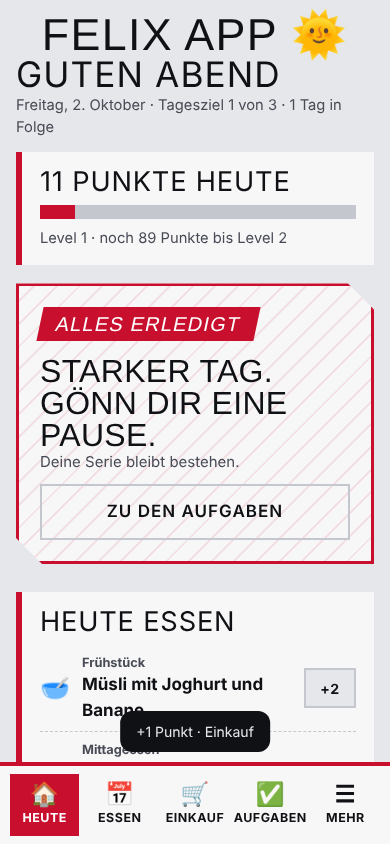
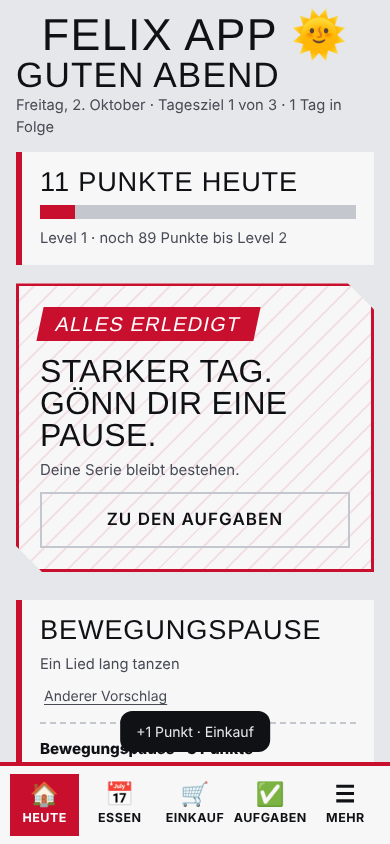
Fokus-Timer, Bewegungspause, Stil-Korrektur (2.4.0)
Claude-Session: https://claude.ai/code/session_01JKnLbAw27fNPQk2xqHruVg

diff --git a/index.html b/index.html
@@ -5,7 +5,7 @@
 <script>try{var _v=localStorage.getItem("aufgabenStil");if(["reward","punk","rock","gothic"].indexOf(_v)>=0)document.documentElement.dataset.v=_v}catch(e){}</script>
 <meta name="viewport" content="width=device-width, initial-scale=1">
 <title>Felix App</title>
-<meta name="version" content="2.3.0">
+<meta name="version" content="2.4.0">
 <meta name="application-name" content="Felix App">
 <meta name="apple-mobile-web-app-title" content="Felix App">
 <link rel="preconnect" href="https://fonts.googleapis.com">
@@ -254,9 +254,9 @@ button.fav.sm{margin-top:6px;padding:4px 14px;font-size:.88rem}
     --hot:#E6C26A; --hot-soft:#2F2508;
     --spot:#C9A24A; --spot-fg:#1A1200; color-scheme:dark;
   }}
-.v-rw button,.v-rw input{font:inherit;color:inherit}
-.v-rw button{cursor:pointer}
-.v-rw h1,.v-rw h2,.v-rw p,.v-rw ul{margin:0;font-family:inherit}
+:where(.v-rw) :is(button,input){font:inherit;color:inherit}
+:where(.v-rw) button{cursor:pointer}
+:where(.v-rw) :is(h1,h2,p,ul){margin:0;font-family:inherit}
 .shell{padding:0}
 .tk-top{display:flex;flex-wrap:wrap;align-items:center;justify-content:space-between;gap:12px 16px;margin-bottom:28px}
 .brand{font-size:12px;color:var(--muted);letter-spacing:.08em;text-transform:uppercase}
@@ -593,6 +593,12 @@ input[type=checkbox]:checked::after{font-size:18px}
 .tk-opt{margin-top:10px}
 .tk-opt summary{cursor:pointer;min-height:44px;display:flex;align-items:center;font-weight:700;color:var(--muted)}
 .tk-opt .field{font-size:16px;min-height:46px}
+
+/* Timer */
+.tm-box{margin-top:16px;padding-top:14px;border-top:2px dashed var(--line)}
+.tm-h{margin:0 0 8px;font-weight:800;font-size:.95rem}
+.tm-time{font-size:2.6rem;line-height:1;font-weight:800;font-variant-numeric:tabular-nums;font-family:var(--f-display)}
+.td-card .tm-box{margin-top:10px}
 @media print{nav,.days,.bar button,.meal a{display:none}section{display:block!important}body{background:#fff;color:#000}.meal,details.recipe{transform:none!important;break-inside:avoid}}
 </style>
 </head>
@@ -713,7 +719,7 @@ input[type=checkbox]:checked::after{font-size:18px}
     </div>
   </section>
 </main>
-<footer class="ver">Felix App, Version 2.3.0 vom 2.10.2026</footer>
+<footer class="ver">Felix App, Version 2.4.0 vom 2.10.2026</footer>
 <div id="tk-toast" role="status" aria-live="polite" hidden></div>
 <script>
 
@@ -2109,6 +2115,7 @@ function heroExtra(h){
   o+='<div class="tk-steps"><p class="tk-st-h">Kleine Schritte'+(ns?' · '+nd+' von '+ns+' geschafft':'')+'</p>';
   if(ns)o+='<ul class="tk-st">'+h.steps.map(s=>'<li><button type="button" class="chk" role="checkbox" aria-checked="'+(s.done?'true':'false')+'" aria-label="Schritt erledigt: '+esc(s.t)+'" data-act="stepdone" data-id="'+id+'" data-sid="'+esc(s.id)+'">'+CHECK+'</button><span class="'+(s.done?'is-done':'')+'">'+esc(s.t)+'</span><button type="button" class="del" data-act="stepdel" data-id="'+id+'" data-sid="'+esc(s.id)+'" aria-label="Schritt löschen: '+esc(s.t)+'">'+XICON+'</button></li>').join('')+'</ul>';
   o+='<form class="tk-stform" id="stform" data-id="'+id+'" autocomplete="off"><input class="field" id="f-step" type="text" maxlength="100" placeholder="'+(ns?'Noch ein kleiner Schritt':'Ersten kleinen Schritt aufschreiben')+'" aria-label="Neuer Schritt"><button type="submit" class="btn-ghost sm">+ Schritt</button></form></div>';
+  o+=window.TIMER?TIMER.box('focus'):'';
   if(state.editPlan===h.id)o+='<div class="tk-edit"><label class="fk-date" for="e-wenn">Wenn … <input id="e-wenn" type="text" class="field" maxlength="100" value="'+esc(h.wenn)+'" placeholder="z. B. nach dem Frühstück"></label>'
     +(h.due?'<label class="fk-date" for="e-time">Uhrzeit <input id="e-time" type="time" class="field date" value="'+esc(h.time)+'"></label>':'<p class="fk-meta">Für eine Uhrzeit braucht die Aufgabe einen Tag.</p>')
     +'<div class="tk-edit-b"><button type="button" class="btn-solid" data-act="saveplan" data-id="'+id+'">Speichern</button><button type="button" class="link" data-act="cancelplan">Abbrechen</button></div></div>';
@@ -2321,6 +2328,53 @@ const PTS=(function(){
   return api;
 })();
 window.PTS=PTS;
+/* Timer: Fokus-Zeit und Bewegungspause, je 3 Punkte bei vollendeter Zeit */
+const TIMER=(function(){
+  const KEY="timer";
+  const KINDS={focus:{name:"Fokus-Zeit",opts:[5,10,25],pts:3,label:"Fokus-Zeit geschafft. Mach kurz Pause.",btn:"Fokus starten"},
+               move:{name:"Bewegungspause",opts:[5,10],pts:3,label:"Bewegungspause geschafft",btn:"Bewegung starten"}};
+  const MOVES=["10 Kniebeugen und die Arme kreisen","Eine Runde um den Block gehen","Ein Lied lang tanzen","Treppe rauf und runter","Fünf Minuten dehnen: Nacken, Schultern, Rücken","Hampelmänner, so viele wie es sich gut anfühlt"];
+  let cur=null,min={focus:10,move:5},idea=new Date().getDate()%MOVES.length;
+  try{const r=JSON.parse(localStorage.getItem(KEY)||"null");if(r&&KINDS[r.kind]&&r.end>Date.now())cur=r;else localStorage.removeItem(KEY)}catch(e){}
+  const save=()=>{try{cur?localStorage.setItem(KEY,JSON.stringify(cur)):localStorage.removeItem(KEY)}catch(e){}};
+  const fmt=ms=>{const s=Math.max(0,Math.ceil(ms/1000));return String(Math.floor(s/60)).padStart(2,"0")+":"+String(s%60).padStart(2,"0")};
+  function rerender(){
+    if(window.TK)TK.refresh();
+    const t=document.getElementById("today");if(t&&t.classList.contains("active")&&window.renderToday)renderToday();
+  }
+  function finish(){
+    const k=cur.kind,end=cur.end;cur=null;save();
+    PTS.award("timer:"+k+":"+end,KINDS[k].pts,KINDS[k].label);
+    try{if(navigator.vibrate)navigator.vibrate([200,100,200])}catch(e){}
+    rerender();
+  }
+  setInterval(()=>{
+    if(!cur)return;
+    const left=cur.end-Date.now();
+    if(left<=0){finish();return}
+    document.querySelectorAll("[data-timer-t]").forEach(el=>el.textContent=fmt(left));
+    document.querySelectorAll("[data-timer-bar]").forEach(el=>el.style.width=Math.round((1-left/(cur.min*60000))*100)+"%");
+  },1000);
+  document.addEventListener("click",e=>{
+    const a=e.target.closest("[data-tstart],[data-tstop],[data-tmin],[data-tidea]");if(!a)return;
+    if(a.dataset.tmin){const k=a.dataset.tkind;min[k]=+a.dataset.tmin;rerender();return}
+    if(a.dataset.tidea!==undefined){idea=(idea+1)%MOVES.length;rerender();return}
+    if(a.dataset.tstop!==undefined){cur=null;save();rerender();return}
+    if(a.dataset.tstart){const k=a.dataset.tstart;if(cur)return;cur={kind:k,min:min[k],end:Date.now()+min[k]*60000};save();rerender()}
+  });
+  return {
+    idea:()=>MOVES[idea],
+    running:k=>!!cur&&(!k||cur.kind===k),
+    box(k){
+      const K=KINDS[k];
+      if(cur&&cur.kind===k){const left=cur.end-Date.now();
+        return '<div class="tm-box tm-run"><p class="tm-h">'+K.name+' läuft</p><div class="tm-time" data-timer-t role="timer">'+fmt(left)+'</div><div class="tk-prog" style="margin:8px 0"><i data-timer-bar style="width:'+Math.round((1-left/(cur.min*60000))*100)+'%"></i></div><button type="button" class="link" data-tstop>Abbrechen</button></div>'}
+      if(cur)return '<div class="tm-box"><p class="tm-h">'+K.name+'</p><p class="fk-meta" style="margin:0">'+KINDS[cur.kind].name+' läuft gerade noch.</p></div>';
+      return '<div class="tm-box"><p class="tm-h">'+K.name+' · '+K.pts+' Punkte</p><div class="chips" role="group" aria-label="Minuten">'+K.opts.map(m=>'<button type="button" class="chip" data-tmin="'+m+'" data-tkind="'+k+'" aria-pressed="'+(min[k]===m)+'">'+m+' Min</button>').join('')+'</div><button type="button" class="btn-ghost sm" style="margin-top:10px;width:100%" data-tstart="'+k+'">'+K.btn+'</button></div>';
+    }
+  };
+})();
+window.TIMER=TIMER;
 /* Gegessen: Zutaten des Gerichts verschwinden von der Einkaufsliste, Haken weg bringt sie zurück */
 function eatMeal(dn,i){
   const k=PTS.mealKey(i),was=PTS.has(k),base=PLAN[dn]&&PLAN[dn][i];
@@ -2363,6 +2417,8 @@ function renderToday(){
    ?`<div class="rw-card"><span class="fk-kicker">Nächster Schritt</span><h2 class="fk-task">${escE(hero.title)}</h2><p class="fk-meta">${escE(hero.when)}</p>${hero.wenn?`<p class="tk-wd"><b>Wenn</b> ${escE(hero.wenn)}, <b>dann</b> ${escE(hero.title)}</p>`:""}${hero.time?`<p class="tk-time">Um ${hero.time} Uhr · ${escE(hero.left)}</p>`:""}${hero.ns?`<p class="fk-meta">${hero.nd} von ${hero.ns} kleinen Schritten geschafft</p>`:""}<button type="button" class="rw-go" data-tkdone="${escE(hero.id)}">Geschafft! +10</button><button type="button" class="btn-ghost" data-tabgo="tasks">Alle Aufgaben</button></div>`
    :`<div class="rw-card"><span class="fk-kicker">${s.any?"Alles erledigt":"Los geht’s"}</span><h2 class="fk-task">${s.any?"Starker Tag. Gönn dir eine Pause.":"Noch keine Aufgabe."}</h2><p class="fk-meta">${s.any?"Deine Serie bleibt bestehen.":"Schreib die erste Aufgabe auf, ganz klein genügt."}</p><button type="button" class="btn-ghost" data-tabgo="tasks">Zu den Aufgaben</button></div>`;
   const dayPlan=PLAN[dn];
+  if(TIMER.running('focus'))html+=`<div class="td-card"><h2>Fokus</h2>${TIMER.box('focus')}</div>`;
+  html+=`<div class="td-card"><h2>Bewegungspause</h2><p class="note" style="margin:0 0 4px">${escE(TIMER.idea())}</p><button type="button" class="link" data-tidea>Anderer Vorschlag</button>${TIMER.box('move')}</div>`;
   html+=`<div class="td-card"><h2>Heute essen</h2>`+(dayPlan
    ?dayPlan.map(([text,rid],i)=>{const sl=slotOf("p|"+dn+"|"+i,{text,rid});const k=PTS.mealKey(i),on=PTS.has(k);return `<div class="td-meal"><i>${ICONS[i]}</i><div style="flex:1"><small>${LABELS[i]}</small>${escE(sl.text)}</div><button type="button" class="fav sm${on?" on":""}" style="margin:0" data-mealdone="${i}">${on?"✓":"+2"}</button></div>`}).join("")+`<button type="button" class="td-go" data-tabgo="plan">Ganzer Plan</button>`
    :`<p class="note" style="margin:0">Für ${dn} gibt es keinen festen Plan.</p><button type="button" class="td-go" data-tabgo="choose">Pläne ansehen</button>`)+`</div>`;

diff --git a/CHANGELOG.md b/CHANGELOG.md
@@ -3,6 +3,13 @@
 Jede Änderung bekommt eine neue Versionsnummer. Die Version steht unten in der App.
 Schema: Hauptversion.Neue Funktion.Korrektur (zum Beispiel 1.1.0 für eine neue Funktion, 1.0.1 für eine Korrektur).
 
+## 2.4.0 vom 2.10.2026
+Fokus-Timer und Bewegungspause.
+- Fokus-Zeit auf der großen Aufgabenkarte: 5, 10 oder 25 Minuten. Ist die Zeit um, gibt es 3 Punkte, eine Meldung und eine Erinnerung zur kurzen Pause. Mit Abbrechen gibt es keine Punkte.
+- Bewegungspause auf der Startseite Heute: 5 oder 10 Minuten mit einem Vorschlag (Kniebeugen, Runde um den Block, tanzen, Treppe, dehnen, Hampelmänner), 3 Punkte bei vollendeter Zeit. "Anderer Vorschlag" wechselt die Idee.
+- Es läuft immer nur ein Timer. Er läuft weiter, wenn du die Seite neu lädst oder den Reiter wechselst. Ist die Zeit abgelaufen, während die App geschlossen war, gibt es keine Punkte.
+- Korrektur: Im Aufgaben-Design waren seit 2.0.0 einzelne Schriftfarben und Abstände falsch (zum Beispiel der Geschafft-Knopf mit dunkler Schrift). Jetzt wieder wie vorgesehen.
+
 ## 2.3.0 vom 2.10.2026
 Aufgaben: kleine Schritte, Wenn-dann und Uhrzeit (nach Studien zu ADHS und Planung).
 - Kleine Schritte: Jede Aufgabe lässt sich in bis zu 12 Schritte teilen. Jeder erledigte Schritt bringt 2 Punkte, die ganze Aufgabe weiterhin 10. Ein zurückgenommener oder gelöschter Schritt nimmt seine Punkte wieder weg.
